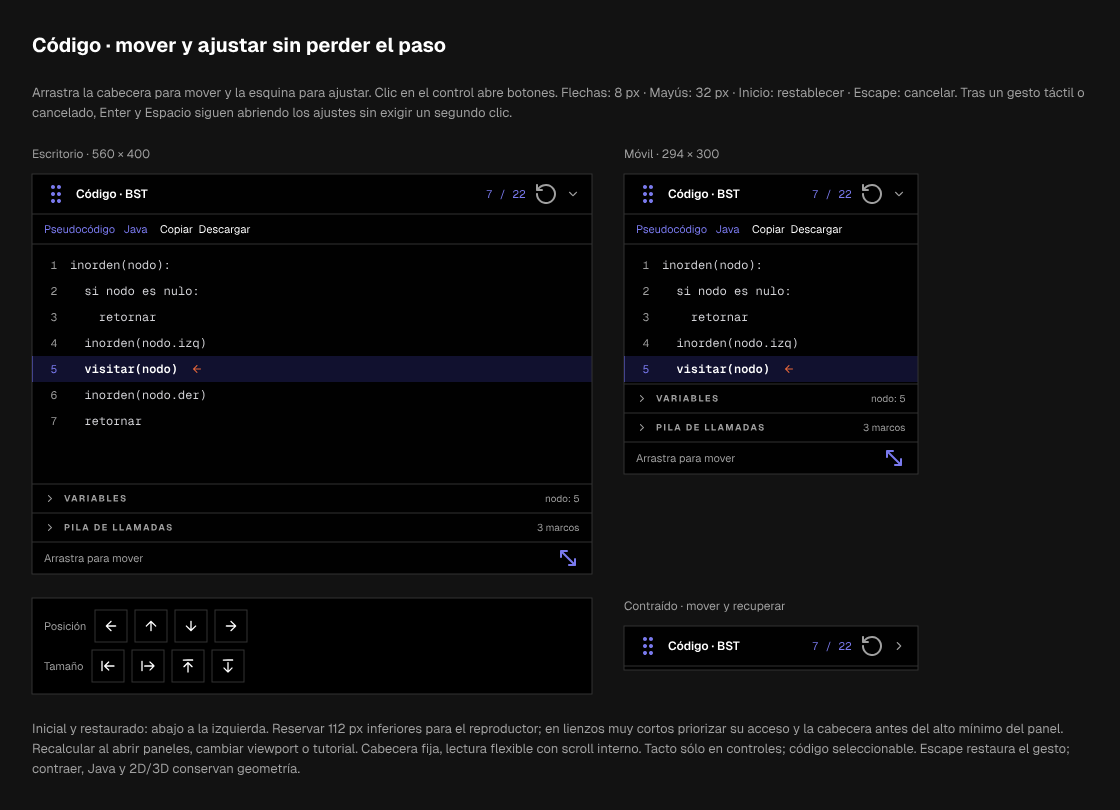
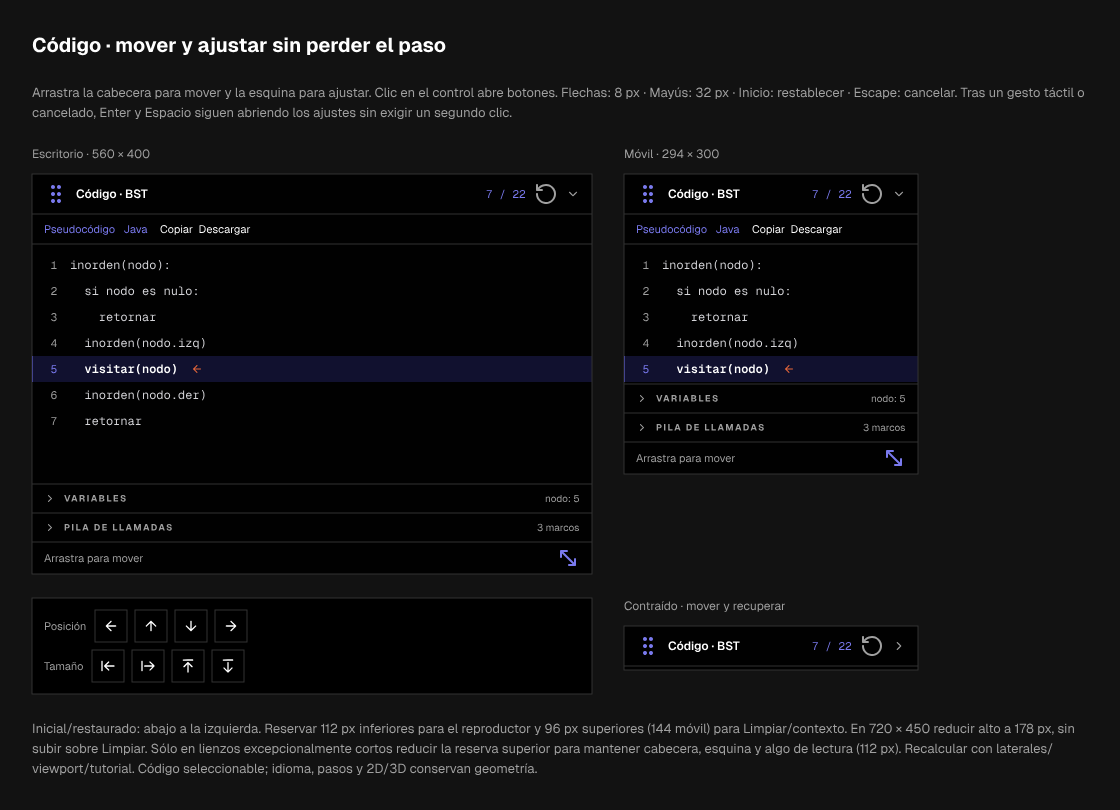
test(ui): verify short panel reflow and stable navigation capture

Changed region(s): [[0.0312, 0.8951, 0.9688, 0.9568]]

diff --git a/hus/MEJORA-panel-codigo-movil.md b/hus/MEJORA-panel-codigo-movil.md
@@ -31,7 +31,7 @@ Solicitud: «Permite que el cuadrado de donde se ve el código sea móvil y pued
 | 4. Frontend | Completa: panel, hook y geometría; build/typecheck/lint correctos |
 | 5. Cypress | Completa: cinco specs, API real; Chrome y Firefox 11/11 |
 | 6. Integración y QA visual | Completa: servicios aislados reales, 27/27 QA, capturas/axe y gestos nativos |
-| 7. Main y publicación | Solicitadas expresamente para esta mejora; proceder tras validar y presentar evidencias |
+| 7. Main y publicación | En curso: frontend PR #13; diseño/QA PR #2; pendiente CI del commit final y despliegue |
 
 La autorización de integración para esta mejora viene de la solicitud actual de dejarla en `main`, en el contexto de los despliegues por PR y CI/CD de esta conversación. No se reutiliza solamente la aprobación de una mejora anterior.
 
@@ -52,8 +52,8 @@ Resultados locales (2026-10-05):
 Backend make test: Tests run: 328, Failures: 0, Errors: 0, Skipped: 2
 BUILD SUCCESS (34.589 s)
 Frontend: npm run build / typecheck / lint: exit 0
-Vitest: 8 test files passed, 62 tests passed; core lines 95.52%
-Cypress Chrome: All specs passed! 11 tests, 11 passing (29 s)
+Vitest: 8 test files passed, 63 tests passed; core lines 95.52%
+Cypress Chrome: All specs passed! 11 tests, 11 passing (23 s)
 Cypress Firefox: All specs passed! 11 tests, 11 passing (27 s), exit 0
 Playwright learning-flow: 27 passed (1.2 m), exit 0
 ```
@@ -62,6 +62,11 @@ Se probó el frontend contra Spring Boot `e2e`, Postgres, Redis y Mailpit aislad
 
 Firefox imprimió `kill EACCES` al cerrar su contexto; Cypress confirmó que no afecta el exit code (0). La suite funcional se repetirá en Chrome/Firefox por el CI existente antes de integrar.
 
-QA encontró y corrigió una regresión real: un arrastre táctil que no genera clic dejaba una bandera que consumía el primer Enter posterior. Las activaciones de teclado/tecnología asistiva (`detail=0`) ahora limpian esa bandera; hay regresión Cypress y QA nativa. La primera ejecución visual completa tuvo una diferencia del sidebar temporalmente expandido; expected/actual/diff se inspeccionaron y la repetición aislada pasó sin cambiar baselines. La repetición completa secuencial cerró QA: 27/27, sin modificar baselines.
+QA encontró y corrigió una regresión real: un arrastre táctil que no genera clic dejaba una bandera que consumía el primer Enter posterior. Las activaciones de teclado/tecnología asistiva (`detail=0`) ahora limpian esa bandera; hay regresión Cypress y QA nativa. La primera ejecución visual completa tuvo una diferencia del sidebar temporalmente expandido; expected/actual/diff se inspeccionaron y la repetición aislada pasó sin cambiar baselines. La repetición completa secuencial cerró QA: 27/27, sin modificar baselines. Al ampliar QA con reflow/breakpoints, reapareció la expansión temporal: la prueba ahora termina explícitamente hover/foco en el lienzo y comprueba la navegación contraída antes de comparar. No cambia el comportamiento del producto ni la baseline.
 
 No hay cambios de backend ni infraestructura. No se crean commits o PR vacíos. La geometría se conserva mientras vive el panel, sin persistencia entre sesiones. `bun.lock` del usuario queda excluido.
+
+
+QA adicional: reflow de escritorio a 720 × 450 CSS px (equivalente al espacio de 1440 × 900 con zoom al 200 %, sin afirmar interacción con toolbar del navegador), y tamaños 639/640 × 600 a ambos lados del breakpoint. Axe encontró una obstrucción de «Limpiar» a baja altura: se actualizó Pen antes de corregir el límite superior. Ahora se preserva la reserva de contexto/toolbar antes que la altura nominal de 220 px, con scroll en el cuerpo. La unidad nueva verifica top 96 px y alto 178 px en ese caso. Sólo los lienzos excepcionalmente cortos del tutorial reducen la reserva superior para conservar cabecera/esquina/lectura y reproductor.
+
+Última revalidación local después de corregir la reserva superior: build/typecheck/lint exit 0, Vitest 63/63, Cypress Chrome 11/11 (23 s), Firefox 11/11 (27 s, exit 0) y Playwright learning-flow 27/27 (1.2 m), incluidos reflow y breakpoints. PR de código: https://github.com/vista-pdg/frontend/pull/13. PR de diseño/QA: https://github.com/vista-pdg/dev-workflow/pull/2. CI del código final: https://github.com/vista-pdg/frontend/actions/runs/37366651262.

diff --git a/hus/evidence/MEJORA-panel-codigo-movil/README.md b/hus/evidence/MEJORA-panel-codigo-movil/README.md
@@ -17,3 +17,5 @@ Procedencia: `tests/ui/learning-flow.spec.mjs`, fixture determinista de UI (`ui-
 Revisión: código seleccionable y línea Java activa visible; área de lectura crece al ampliar; cabecera/corner y reset accesibles; variables mantienen scroll interno; botones en móvil envuelven sin desbordar; el reproductor queda libre. Foco visible, tabulación y Enter funcionan tras arrastre táctil. Flechas del panel no avanzan el algoritmo. Escape cancela gestos y restablecimiento recupera tamaño/posición responsivos. Contraído y móvil de 390 × 600 pasan controles de overflow/axe.
 
 Ratón nativo en tres viewports y tacto CDP nativo en móvil verifican los gestos, complementando PointerEvents sintéticos de Cypress. Axe se ejecuta en ambos temas, con botones abiertos y panel contraído; no se excluyen reglas. La captura original del lienzo vacío se conserva: la diferencia inicial era el sidebar temporalmente expandido, y la repetición aislada pasó.
+
+Reflow y breakpoint, capturas inspeccionadas tras la corrección: [639 px](desktop-code-reflow-639.png), [640 px](desktop-code-reflow-640.png), [720 × 450](desktop-code-reflow-720.png). El último equivale al espacio CSS del escritorio a zoom 200 %, no a pinch zoom ni una interacción con la toolbar del navegador. Se reducen las dimensiones del panel para dejar libre Limpiar y el reproductor; el cuerpo usa scroll en alturas pequeñas. Axe bloqueó inicialmente una obstrucción de Limpiar y pasó después de preservar su reserva superior.
